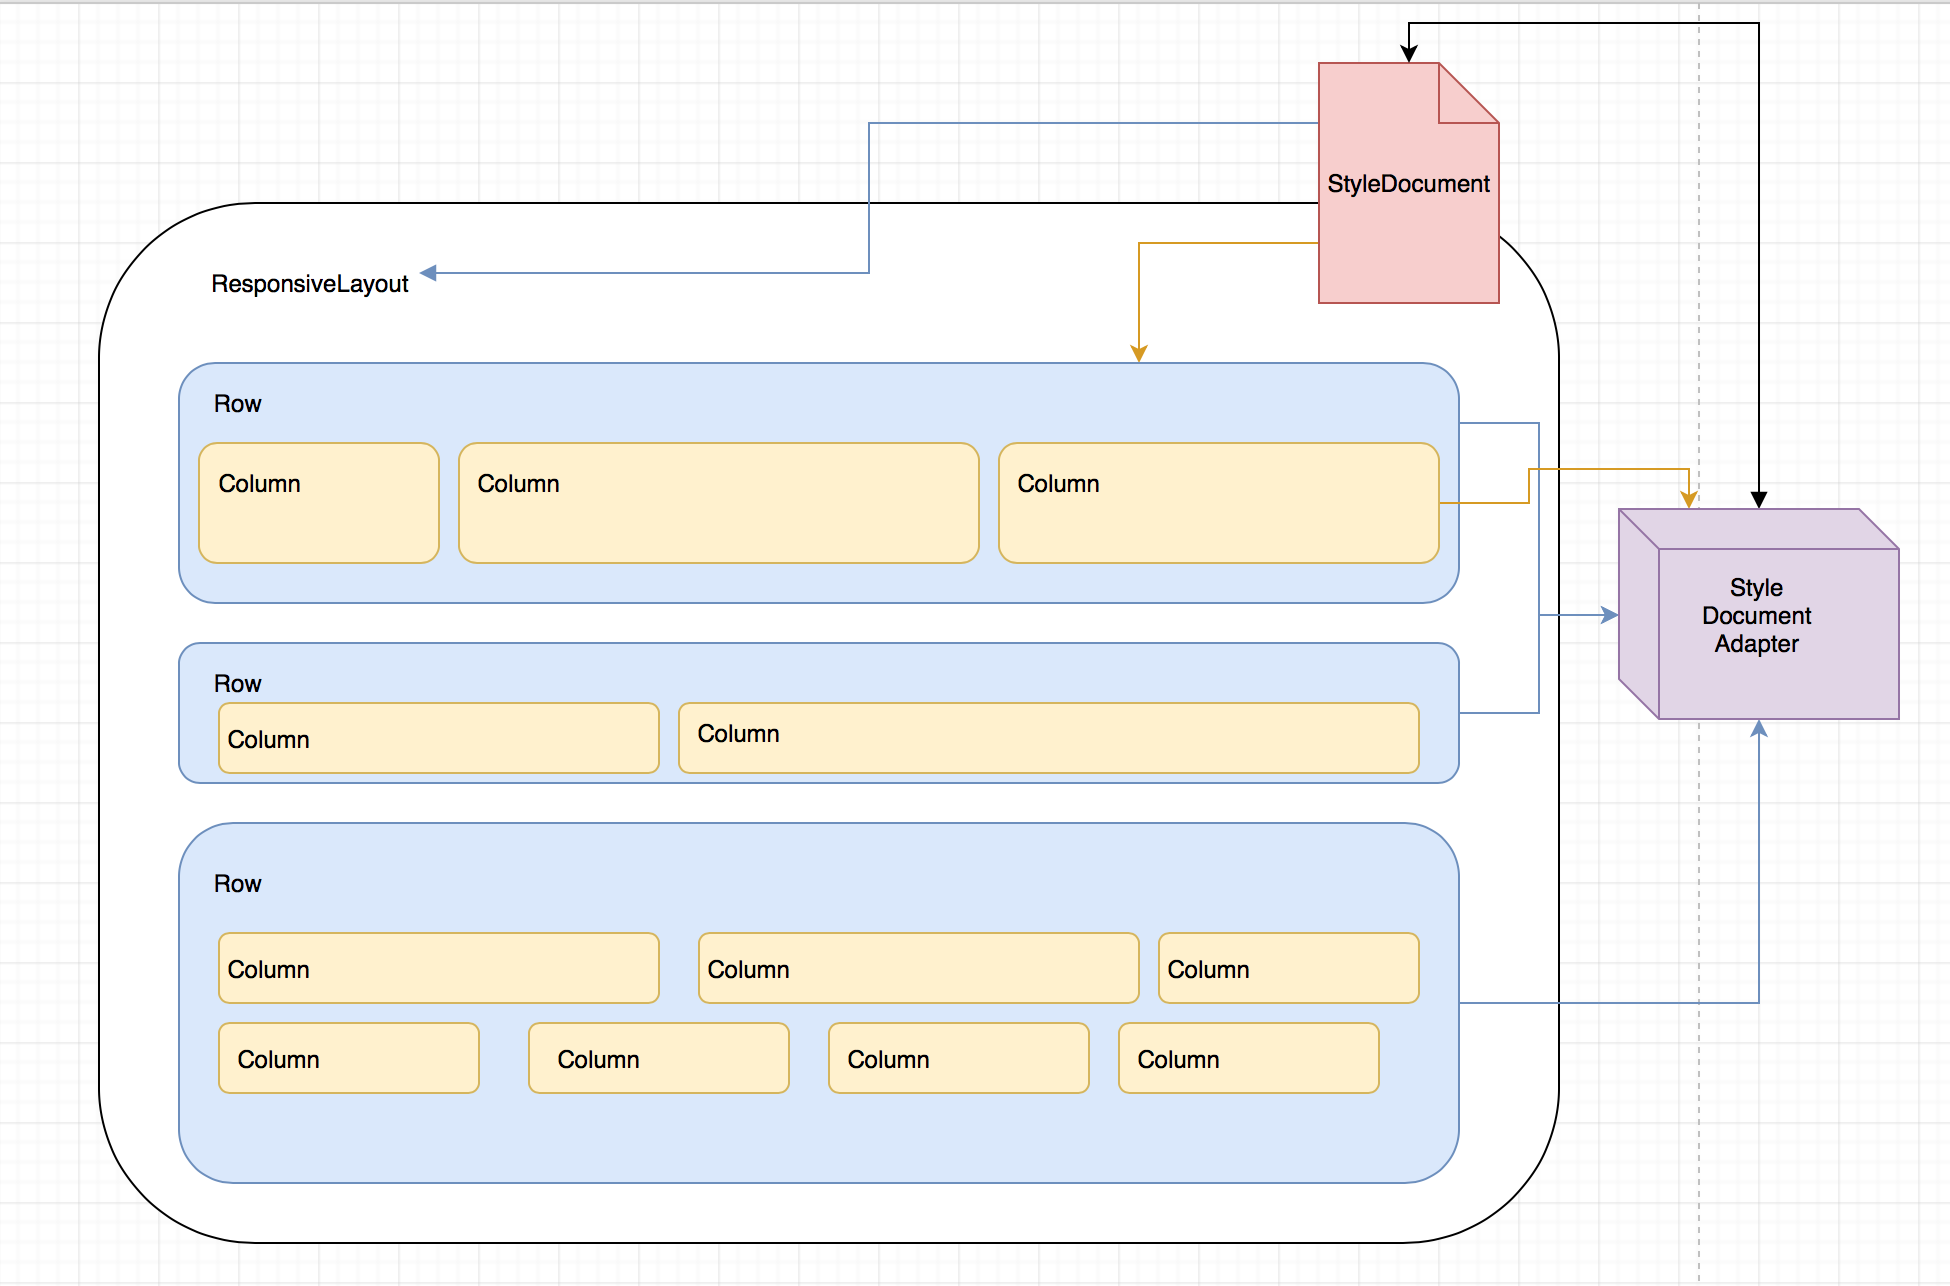
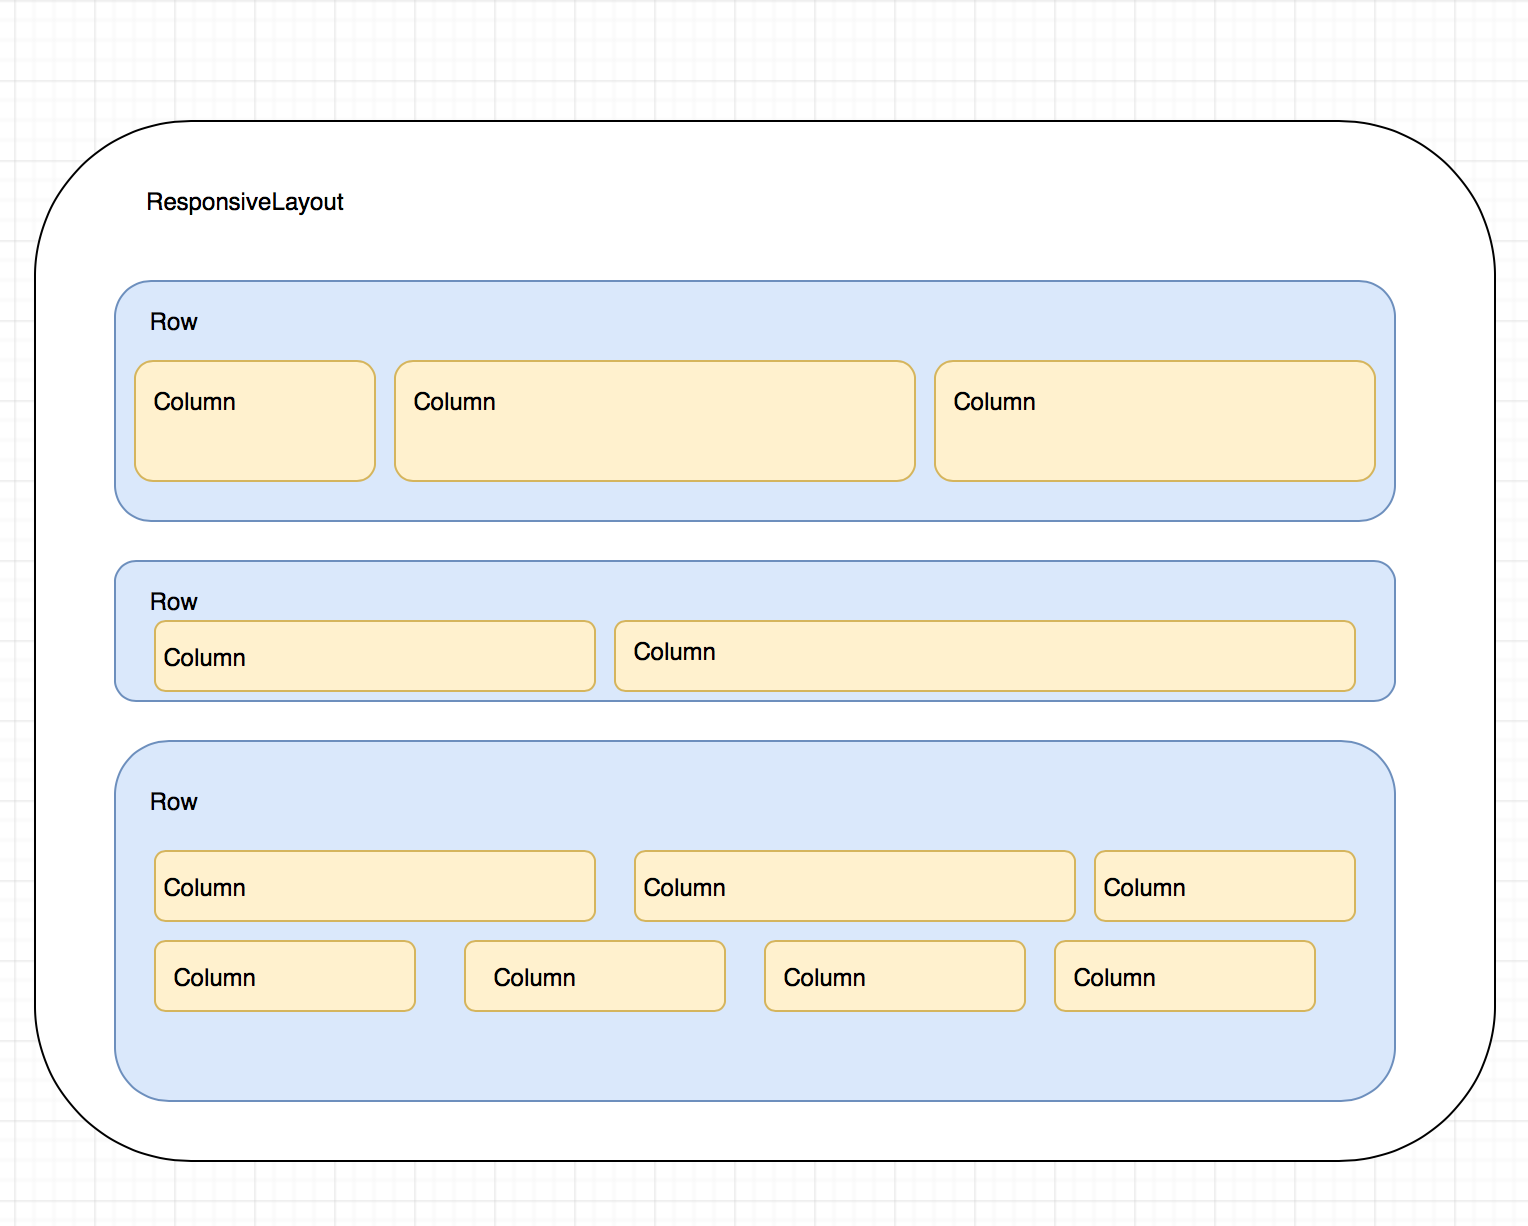
Updated src/Readme Diagram

diff --git a/src/main/java/com/vernesoftware/README.md b/src/main/java/com/vernesoftware/README.md
@@ -7,22 +7,4 @@ Basic Structure
 ![Image of diagram](https://raw.githubusercontent.com/Jayrok94/ResponsiveLayout/master/layoutdiagram.png)
 
 
-### Key things to note
-------------------
-
- * ResponsiveLayout and Row are subclassed from StyleDocumentAdapterCssLayout which gives them access to getCss() method which they use to dynamicly set the raw css of there objects;
- * Style Document Adapter is an interface which asks for getStyleDocument and setStyleDocument to be implemented
- * Column is subclassed from CustomComponant
- * A StyleDocument is a holder of css properties ' that is all '
-
-> let me know what you think
-
-> Upon further review i have been thinking: To make it more vaadin like we can actually remove all of the style document and style document adapter stuff. There sole purpose is to allow for a dynamic change of css variables so instead of setMargin(50px) you just do setMargin(true) and be happy with whats predefined.
-
-> Since this is the case we can shelf the styleDocument for another project
-
-
-
-
-
 
